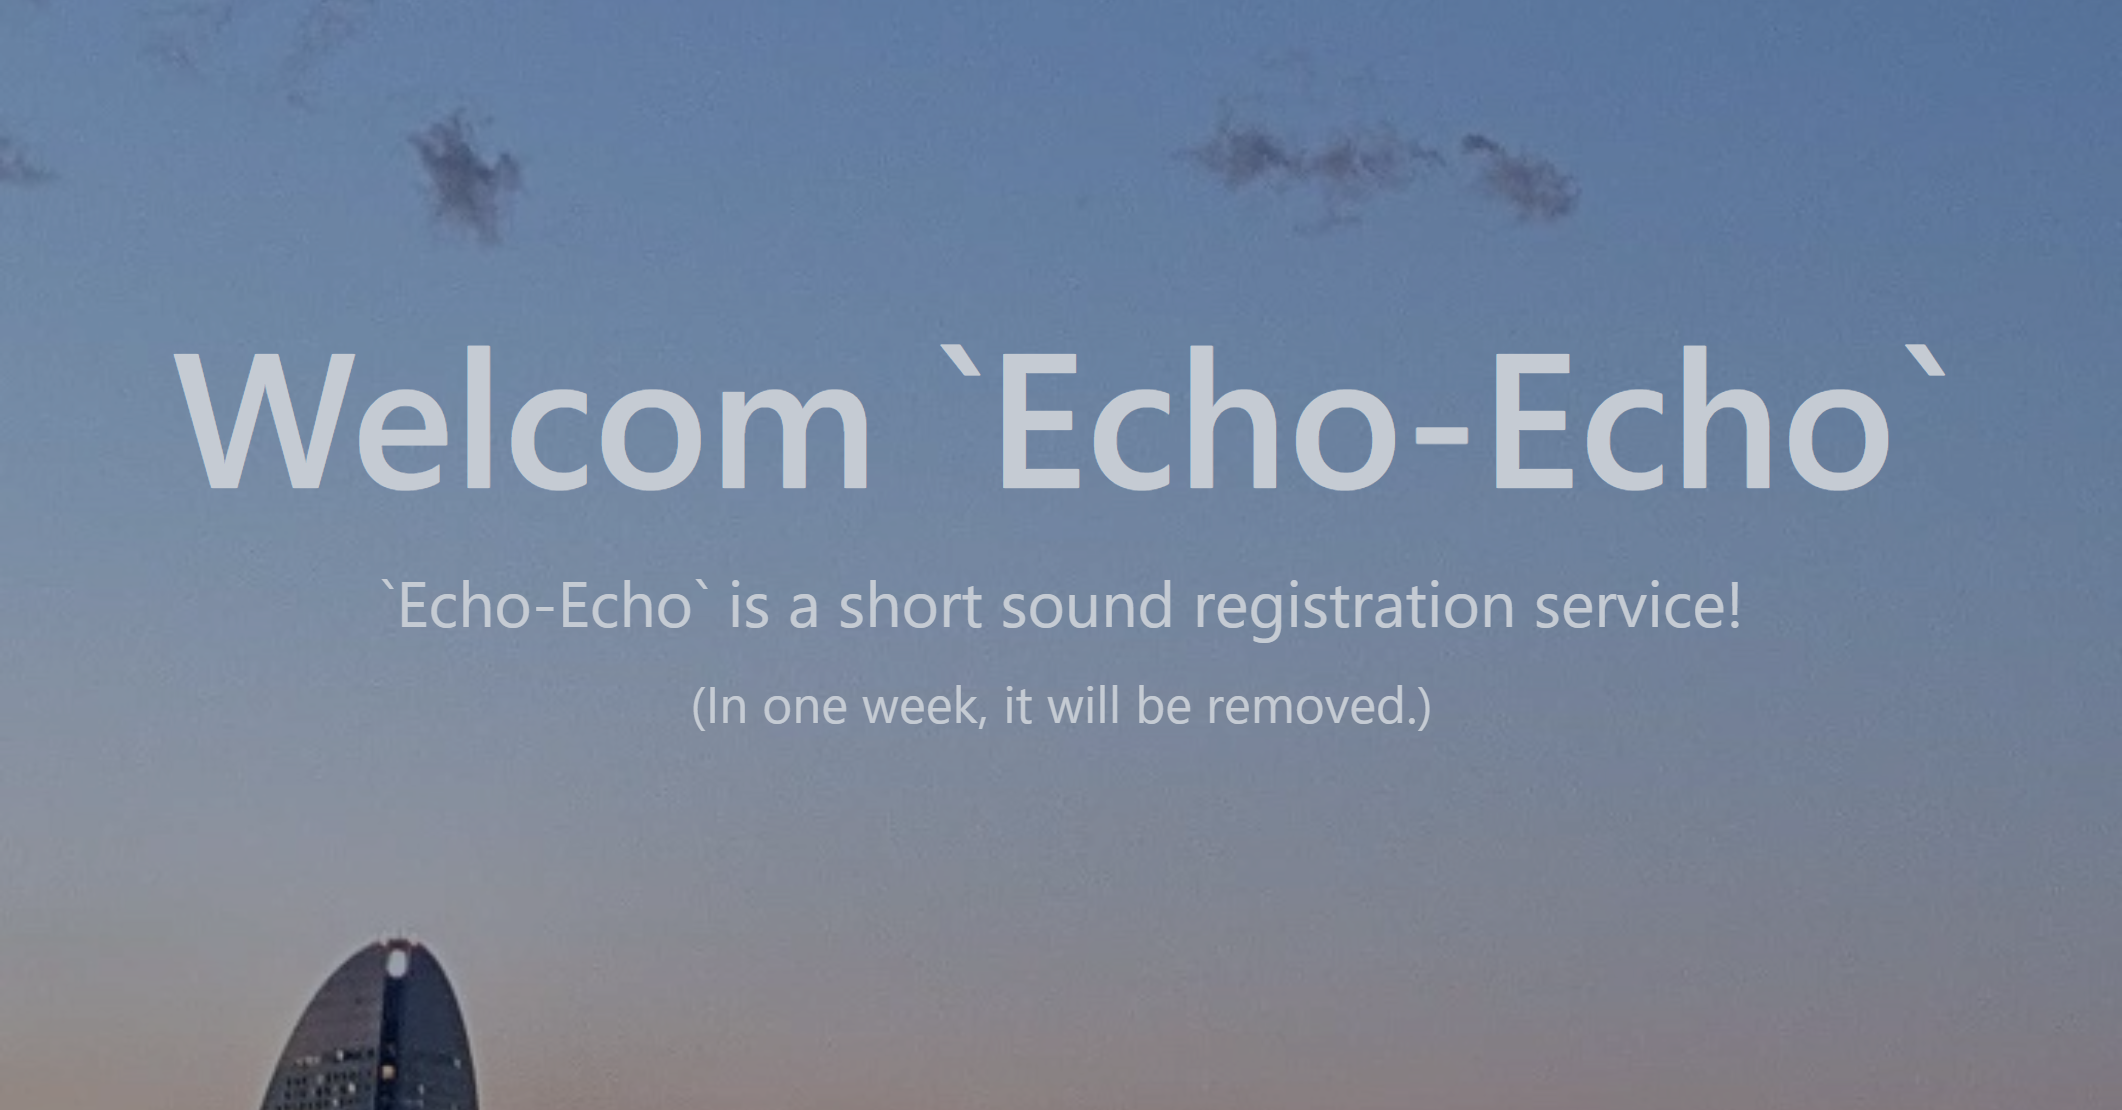
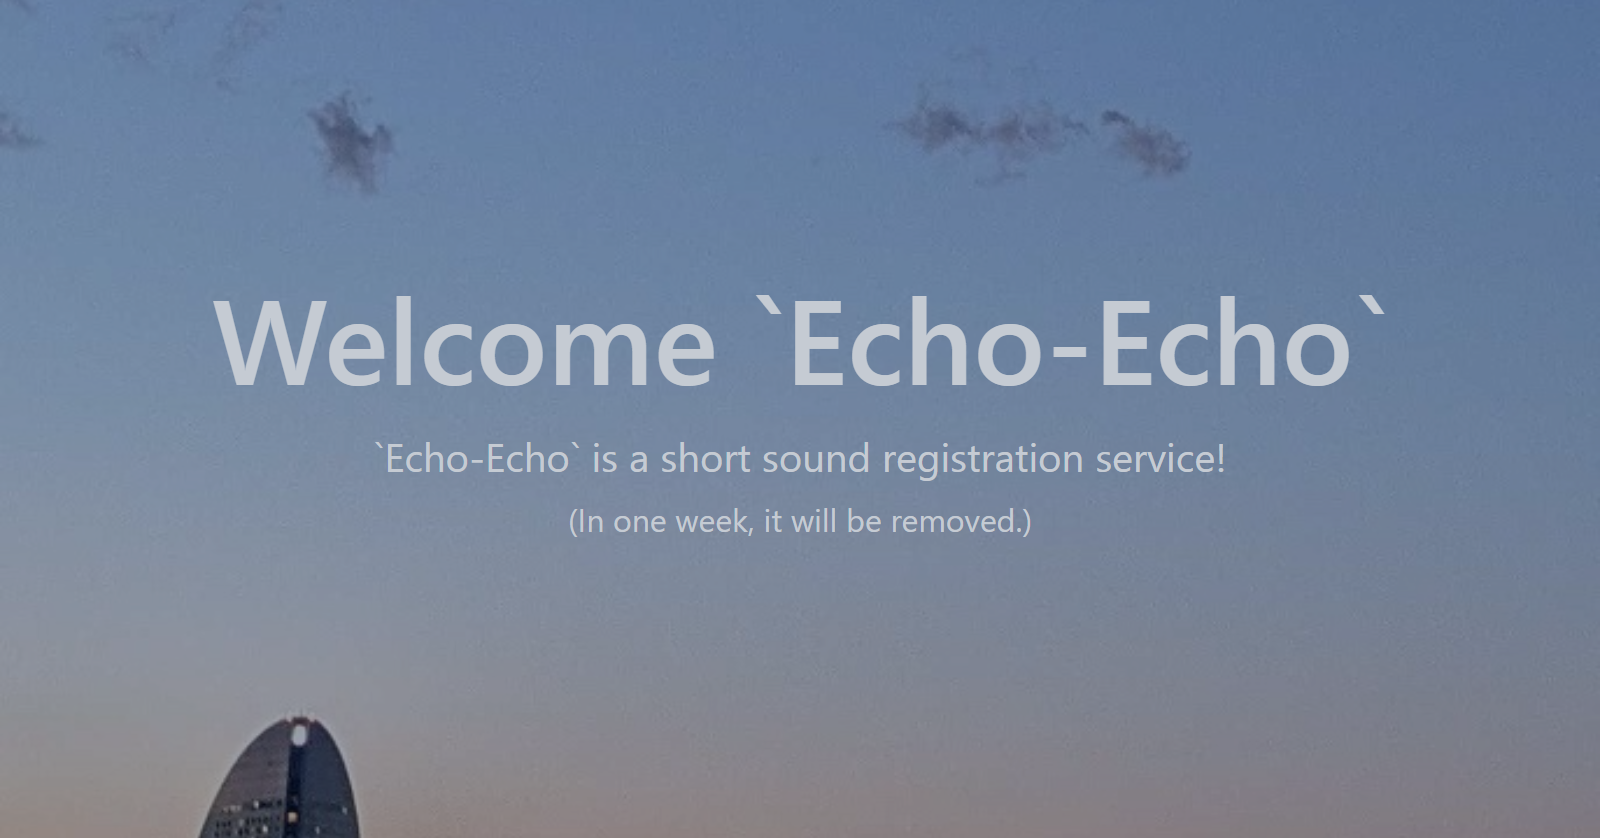
fix: typo welcom => welcome

diff --git a/components/HeroHome.tsx b/components/HeroHome.tsx
@@ -3,8 +3,8 @@ export default function HeroHome() {
     <div class="hero" style="background-image: url(/images/1000007461.jpg);">
       <div class="hero-overlay bg-opacity-40"></div>
       <div class="hero-content text-center text-neutral-content">
-        <div class="max-w-md">
-          <h1 class="text-5xl font-bold">Welcom `Echo-Echo`</h1>
+        <div class="">
+          <h1 class="text-5xl font-bold">Welcome `Echo-Echo`</h1>
           <div class="py-3">
             <p class="">
               `Echo-Echo` is a short sound registration service!

diff --git a/components/HeroIndex.tsx b/components/HeroIndex.tsx
@@ -6,8 +6,8 @@ export default function Hero() {
     >
       <div class="hero-overlay bg-opacity-40"></div>
       <div class="hero-content text-center text-neutral-content">
-        <div class="max-w-md">
-          <h1 class="text-5xl font-bold">Welcom `Echo-Echo`</h1>
+        <div class="">
+          <h1 class="text-5xl font-bold">Welcome `Echo-Echo`</h1>
           <div class="py-3">
             <p class="">
               `Echo-Echo` is a short sound registration service!
